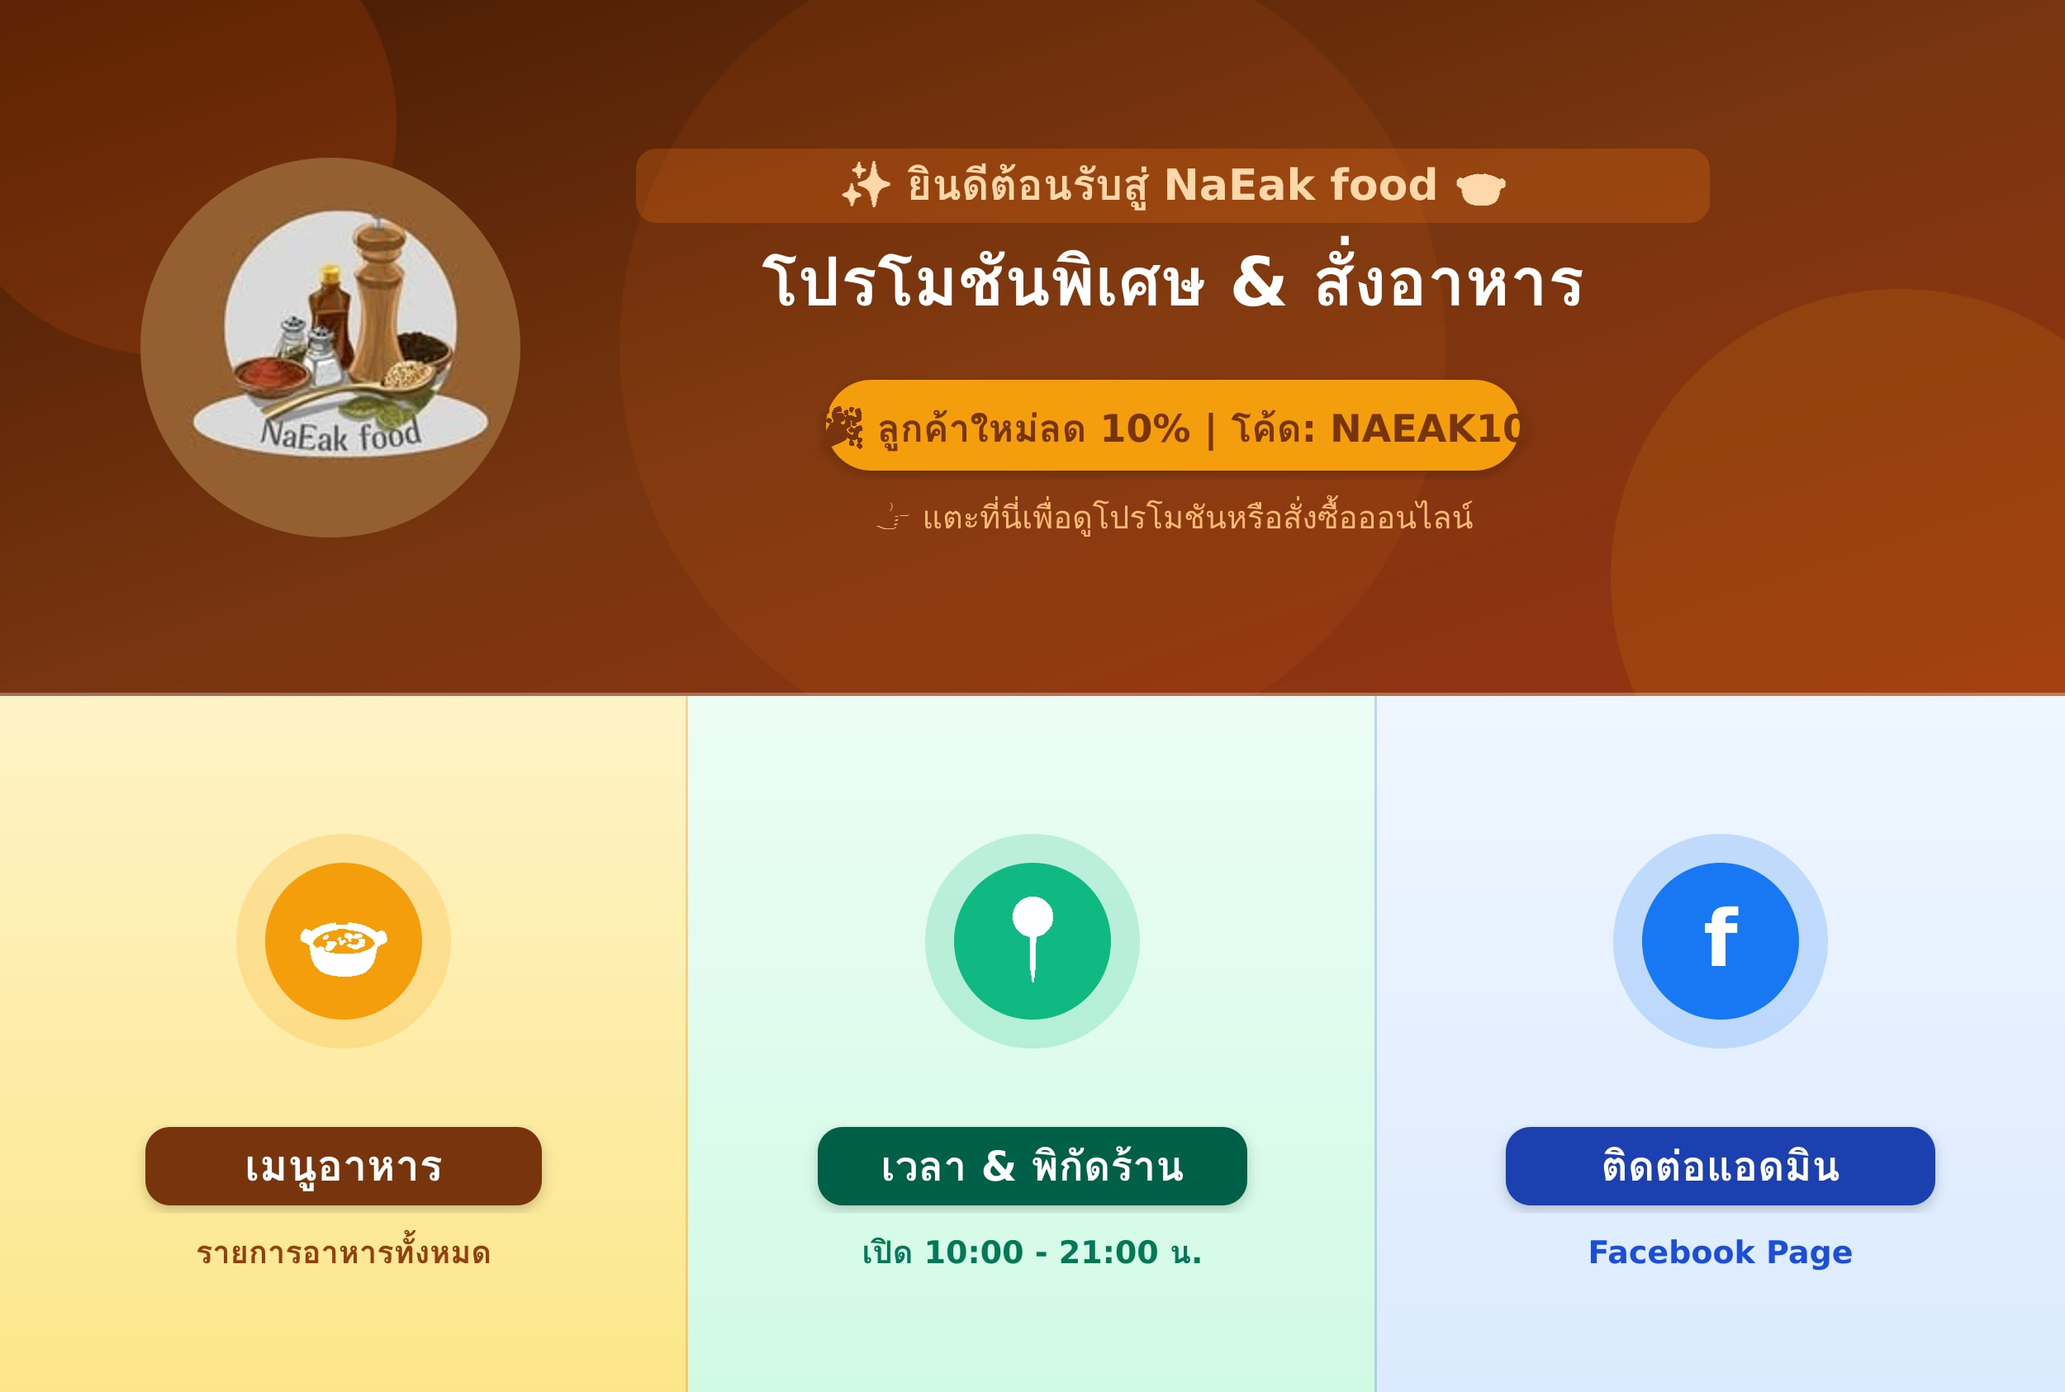
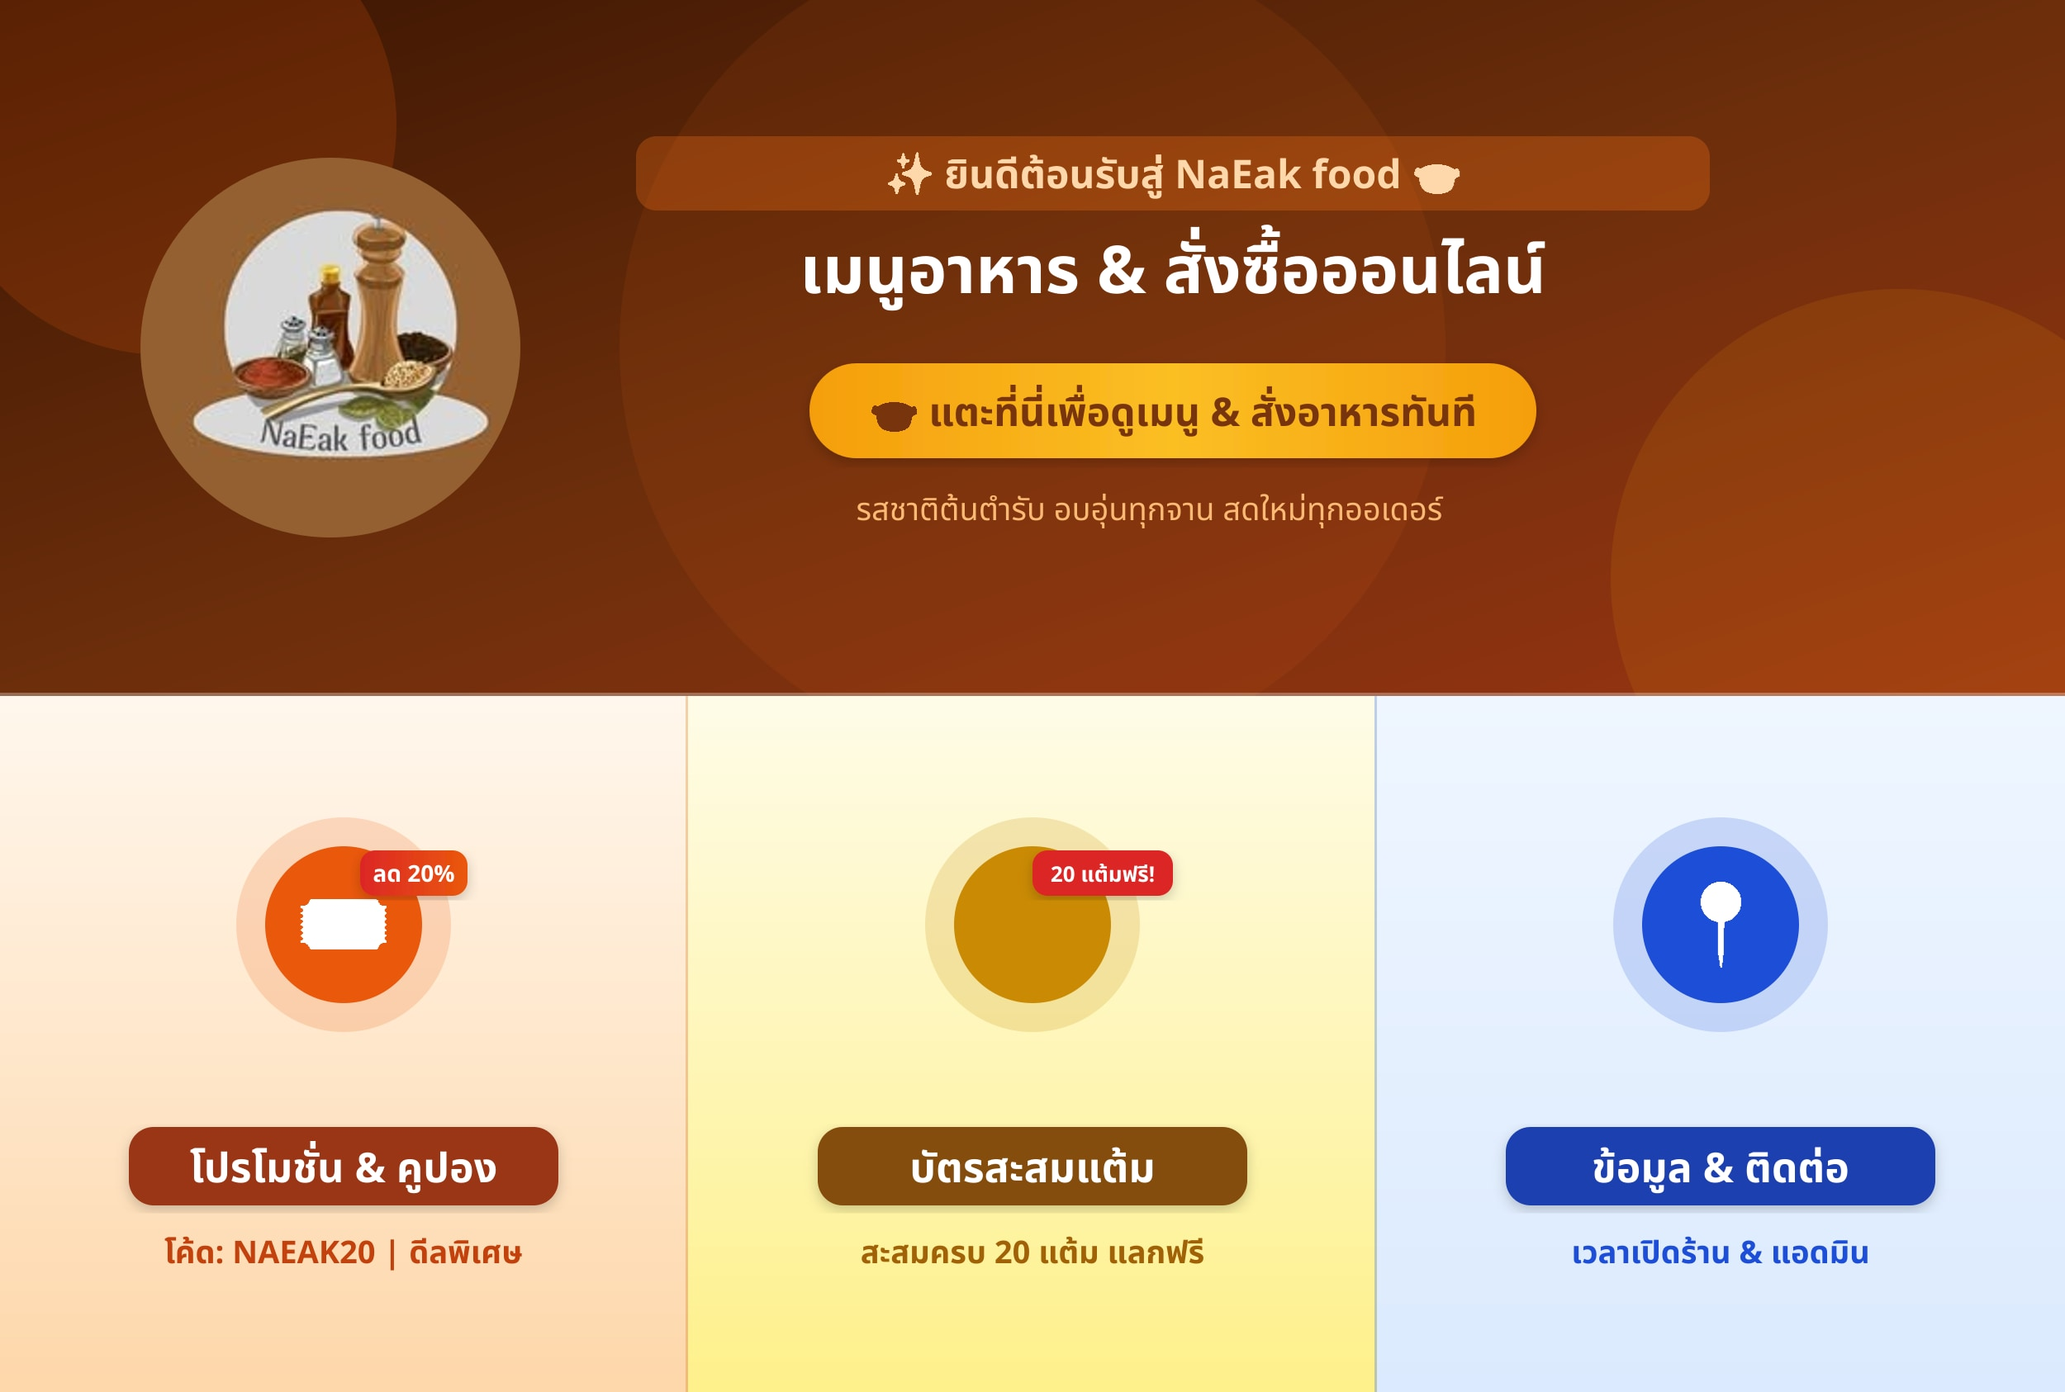
feat: add script and assets for generating template 3 image

diff --git a/assets/generateTemplate3Image.js b/assets/generateTemplate3Image.js
@@ -8,29 +8,48 @@ async function generateTemplate3Image() {
   const halfHeight = 843;
 
   // 1. สร้าง Base SVG สไตล์ Template 3 (บน 1 แถบยาว, ล่าง 3 ปุ่ม)
+  // บน: เมนู & สั่งอาหาร
+  // ล่างซ้าย: โปรโมชั่น & คูปอง (ลด 20% โค้ด NAEAK20) -> https://naeakfood.vercel.app/#promo
+  // ล่างกลาง: บัตรสะสมแต้ม (สะสมครบ 20 แต้ม แลกอาหารฟรี) -> https://naeakfood.vercel.app/#rewards
+  // ล่างขวา: ข้อมูล & ติดต่อ (พิกัดร้าน เวลาทำการ และแอดมิน) -> https://www.facebook.com/bcomputer45/
+
   const svg = `
   <svg width="${width}" height="${height}" viewBox="0 0 ${width} ${height}" xmlns="http://www.w3.org/2000/svg">
     <defs>
       <!-- Gradients -->
       <linearGradient id="topBannerGrad" x1="0%" y1="0%" x2="100%" y2="100%">
-        <stop offset="0%" stop-color="#451a03" />
-        <stop offset="50%" stop-color="#78350f" />
+        <stop offset="0%" stop-color="#3b1502" />
+        <stop offset="50%" stop-color="#6c2e0b" />
         <stop offset="100%" stop-color="#9a3412" />
       </linearGradient>
 
+      <!-- Button 1: โปรโมชั่น & คูปอง (ส้มประกายทอง/แดงโปรโมชั่น) -->
       <linearGradient id="btn1Grad" x1="0%" y1="0%" x2="0%" y2="100%">
-        <stop offset="0%" stop-color="#fef3c7" />
-        <stop offset="100%" stop-color="#fde68a" />
+        <stop offset="0%" stop-color="#fff7ed" />
+        <stop offset="100%" stop-color="#fed7aa" />
       </linearGradient>
 
+      <!-- Button 2: บัตรสะสมแต้ม 20 แต้ม (เหลืองทองพรีเมียม) -->
       <linearGradient id="btn2Grad" x1="0%" y1="0%" x2="0%" y2="100%">
-        <stop offset="0%" stop-color="#ecfdf5" />
-        <stop offset="100%" stop-color="#d1fae5" />
+        <stop offset="0%" stop-color="#fefce8" />
+        <stop offset="100%" stop-color="#fef08a" />
       </linearGradient>
 
+      <!-- Button 3: ข้อมูล & ติดต่อ (ฟ้าสดใส) -->
       <linearGradient id="btn3Grad" x1="0%" y1="0%" x2="0%" y2="100%">
         <stop offset="0%" stop-color="#eff6ff" />
         <stop offset="100%" stop-color="#dbeafe" />
+      </linearGradient>
+
+      <linearGradient id="goldPill" x1="0%" y1="0%" x2="100%" y2="0%">
+        <stop offset="0%" stop-color="#f59e0b" />
+        <stop offset="50%" stop-color="#fbbf24" />
+        <stop offset="100%" stop-color="#f59e0b" />
+      </linearGradient>
+
+      <linearGradient id="redPill" x1="0%" y1="0%" x2="100%" y2="0%">
+        <stop offset="0%" stop-color="#dc2626" />
+        <stop offset="100%" stop-color="#ea580c" />
       </linearGradient>
 
       <filter id="cardShadow" x="-10%" y="-10%" width="120%" height="120%">
@@ -45,88 +64,103 @@ async function generateTemplate3Image() {
     <!-- Background Base -->
     <rect width="${width}" height="${height}" fill="#1c1917" />
 
-    <!-- ==================== TOP BANNER (0, 0, 2500, 843) ==================== -->
+    <!-- ==================== TOP BANNER: เมนู & สั่งอาหาร (0, 0, 2500, 843) ==================== -->
     <rect x="0" y="0" width="${width}" height="${halfHeight}" fill="url(#topBannerGrad)" />
     
     <!-- Decorative Warm Food Pattern Elements -->
-    <circle cx="200" cy="150" r="280" fill="#ea580c" opacity="0.15" />
+    <circle cx="200" cy="150" r="280" fill="#ea580c" opacity="0.18" />
     <circle cx="2300" cy="700" r="350" fill="#f59e0b" opacity="0.12" />
     <circle cx="1250" cy="421" r="500" fill="#f97316" opacity="0.08" />
 
     <!-- Top Banner Content Area -->
-    <g transform="translate(620, 421)">
-      <!-- Placeholder frame where Logo will be placed at (140, 196) -->
-    </g>
-
-    <g transform="translate(1420, 260)">
-      <!-- Title -->
-      <rect x="-650" y="-80" width="1300" height="90" rx="25" fill="#f97316" opacity="0.25"/>
-      <text x="0" y="-18" font-family="DejaVu Sans, Arial, sans-serif" font-size="52" fill="#fed7aa" text-anchor="middle" font-weight="bold">✨ ยินดีต้อนรับสู่ NaEak food 🍲</text>
+    <g transform="translate(1420, 250)">
+      <!-- Welcome Subtitle -->
+      <rect x="-650" y="-85" width="1300" height="90" rx="25" fill="#f97316" opacity="0.3"/>
+      <text x="0" y="-22" font-family="'Noto Sans Thai', 'Prompt', 'Kanit', sans-serif" font-size="48" fill="#fed7aa" text-anchor="middle" font-weight="bold">✨ ยินดีต้อนรับสู่ NaEak food 🍲</text>
       
-      <!-- Highlight Banner -->
-      <text x="0" y="110" font-family="DejaVu Sans, Arial, sans-serif" font-size="82" fill="#ffffff" text-anchor="middle" font-weight="bold">โปรโมชันพิเศษ &amp; สั่งอาหาร</text>
+      <!-- Main Action Title -->
+      <text x="0" y="105" font-family="'Noto Sans Thai', 'Prompt', 'Kanit', sans-serif" font-size="80" fill="#ffffff" text-anchor="middle" font-weight="bold">เมนูอาหาร &amp; สั่งซื้อออนไลน์</text>
       
-      <!-- Discount Badge -->
-      <g transform="translate(0, 260)" filter="url(#pillShadow)">
-        <rect x="-420" y="-60" width="840" height="110" rx="55" fill="#f59e0b" />
-        <text x="0" y="15" font-family="DejaVu Sans, Arial, sans-serif" font-size="46" fill="#78350f" text-anchor="middle" font-weight="bold">🎉 ลูกค้าใหม่ลด 10% | โค้ด: NAEAK10</text>
+      <!-- Action Button / Pill -->
+      <g transform="translate(0, 250)" filter="url(#pillShadow)">
+        <rect x="-440" y="-60" width="880" height="115" rx="57" fill="url(#goldPill)" />
+        <text x="0" y="16" font-family="'Noto Sans Thai', 'Prompt', 'Kanit', sans-serif" font-size="48" fill="#78350f" text-anchor="middle" font-weight="bold">🍲 แตะที่นี่เพื่อดูเมนู &amp; สั่งอาหารทันที</text>
       </g>
-      <text x="0" y="380" font-family="DejaVu Sans, Arial, sans-serif" font-size="38" fill="#fdba74" text-anchor="middle">👉 แตะที่นี่เพื่อดูโปรโมชันหรือสั่งซื้อออนไลน์</text>
+      <text x="0" y="380" font-family="'Noto Sans Thai', 'Prompt', 'Kanit', sans-serif" font-size="38" fill="#fdba74" text-anchor="middle">รสชาติต้นตำรับ อบอุ่นทุกจาน สดใหม่ทุกออเดอร์ ✨</text>
     </g>
 
     <!-- Divider Line between Top and Bottom -->
     <line x1="0" y1="${halfHeight}" x2="${width}" y2="${halfHeight}" stroke="#ffffff" stroke-width="8" opacity="0.3" />
 
-    <!-- ==================== BOTTOM 3 BUTTONS ==================== -->
-    <!-- Button 1: เมนูอาหาร (0, 843, 833, 843) -->
+    <!-- ==================== BOTTOM BUTTON 1: โปรโมชั่น & คูปอง (0, 843, 833, 843) ==================== -->
     <rect x="0" y="${halfHeight}" width="833" height="${halfHeight}" fill="url(#btn1Grad)" />
-    <g transform="translate(416, 1140)">
-      <circle r="130" fill="#f59e0b" opacity="0.2"/>
-      <circle r="95" fill="#f59e0b" />
-      <text x="0" y="30" font-family="DejaVu Sans, Arial, sans-serif" font-size="95" fill="#ffffff" text-anchor="middle">🍲</text>
+    
+    <!-- Icon 1: Coupon / Gift -->
+    <g transform="translate(416, 1120)">
+      <circle r="130" fill="#ea580c" opacity="0.18"/>
+      <circle r="95" fill="#ea580c" />
+      <text x="0" y="32" font-family="'Noto Sans Thai', 'Prompt', 'Kanit', sans-serif" font-size="95" fill="#ffffff" text-anchor="middle">🎟</text>
+      
+      <!-- Mini Highlight Tag -->
+      <g transform="translate(85, -60)" filter="url(#pillShadow)">
+        <rect x="-65" y="-30" width="130" height="55" rx="18" fill="url(#redPill)" />
+        <text x="0" y="8" font-family="'Noto Sans Thai', 'Prompt', 'Kanit', sans-serif" font-size="28" font-weight="bold" fill="#ffffff" text-anchor="middle">ลด 20%</text>
+      </g>
     </g>
+
     <g transform="translate(416, 1420)">
-      <rect x="-240" y="-55" width="480" height="95" rx="30" fill="#78350f" filter="url(#pillShadow)"/>
-      <text x="0" y="10" font-family="DejaVu Sans, Arial, sans-serif" font-size="52" fill="#ffffff" text-anchor="middle" font-weight="bold">เมนูอาหาร</text>
-      <text x="0" y="110" font-family="DejaVu Sans, Arial, sans-serif" font-size="38" fill="#92400e" text-anchor="middle" font-weight="bold">รายการอาหารทั้งหมด</text>
+      <rect x="-260" y="-55" width="520" height="95" rx="30" fill="#9a3412" filter="url(#pillShadow)"/>
+      <text x="0" y="12" font-family="'Noto Sans Thai', 'Prompt', 'Kanit', sans-serif" font-size="50" fill="#ffffff" text-anchor="middle" font-weight="bold">โปรโมชั่น &amp; คูปอง</text>
+      <text x="0" y="110" font-family="'Noto Sans Thai', 'Prompt', 'Kanit', sans-serif" font-size="38" fill="#c2410c" text-anchor="middle" font-weight="bold">โค้ด: NAEAK20 | ดีลพิเศษ</text>
     </g>
 
     <!-- Button Divider 1-2 -->
-    <line x1="833" y1="${halfHeight}" x2="833" y2="${height}" stroke="#d97706" stroke-width="6" opacity="0.25" />
+    <line x1="833" y1="${halfHeight}" x2="833" y2="${height}" stroke="#d97706" stroke-width="6" opacity="0.3" />
 
-    <!-- Button 2: เวลา & พิกัดร้าน (833, 843, 834, 843) -->
+    <!-- ==================== BOTTOM BUTTON 2: บัตรสะสมแต้ม 20 แต้ม (833, 843, 834, 843) ==================== -->
     <rect x="833" y="${halfHeight}" width="834" height="${halfHeight}" fill="url(#btn2Grad)" />
-    <g transform="translate(1250, 1140)">
-      <circle r="130" fill="#10b981" opacity="0.2"/>
-      <circle r="95" fill="#10b981" />
-      <text x="0" y="30" font-family="DejaVu Sans, Arial, sans-serif" font-size="95" fill="#ffffff" text-anchor="middle">📍</text>
+    
+    <!-- Icon 2: Loyalty Stamp Star / Trophy -->
+    <g transform="translate(1250, 1120)">
+      <circle r="130" fill="#ca8a04" opacity="0.2"/>
+      <circle r="95" fill="#ca8a04" />
+      <text x="0" y="32" font-family="'Noto Sans Thai', 'Prompt', 'Kanit', sans-serif" font-size="95" fill="#ffffff" text-anchor="middle">⭐</text>
+
+      <!-- Mini Highlight Tag -->
+      <g transform="translate(85, -60)" filter="url(#pillShadow)">
+        <rect x="-85" y="-30" width="170" height="55" rx="18" fill="#dc2626" />
+        <text x="0" y="8" font-family="'Noto Sans Thai', 'Prompt', 'Kanit', sans-serif" font-size="26" font-weight="bold" fill="#ffffff" text-anchor="middle">20 แต้มฟรี!</text>
+      </g>
     </g>
+
     <g transform="translate(1250, 1420)">
-      <rect x="-260" y="-55" width="520" height="95" rx="30" fill="#065f46" filter="url(#pillShadow)"/>
-      <text x="0" y="10" font-family="DejaVu Sans, Arial, sans-serif" font-size="50" fill="#ffffff" text-anchor="middle" font-weight="bold">เวลา &amp; พิกัดร้าน</text>
-      <text x="0" y="110" font-family="DejaVu Sans, Arial, sans-serif" font-size="38" fill="#047857" text-anchor="middle" font-weight="bold">เปิด 10:00 - 21:00 น.</text>
+      <rect x="-260" y="-55" width="520" height="95" rx="30" fill="#854d0e" filter="url(#pillShadow)"/>
+      <text x="0" y="12" font-family="'Noto Sans Thai', 'Prompt', 'Kanit', sans-serif" font-size="50" fill="#ffffff" text-anchor="middle" font-weight="bold">บัตรสะสมแต้ม</text>
+      <text x="0" y="110" font-family="'Noto Sans Thai', 'Prompt', 'Kanit', sans-serif" font-size="38" fill="#a16207" text-anchor="middle" font-weight="bold">สะสมครบ 20 แต้ม แลกฟรี</text>
     </g>
 
     <!-- Button Divider 2-3 -->
-    <line x1="1667" y1="${halfHeight}" x2="1667" y2="${height}" stroke="#2563eb" stroke-width="6" opacity="0.25" />
+    <line x1="1667" y1="${halfHeight}" x2="1667" y2="${height}" stroke="#2563eb" stroke-width="6" opacity="0.3" />
 
-    <!-- Button 3: ติดต่อแอดมิน (1667, 843, 833, 843) -->
+    <!-- ==================== BOTTOM BUTTON 3: ข้อมูล & ติดต่อ (1667, 843, 833, 843) ==================== -->
     <rect x="1667" y="${halfHeight}" width="833" height="${halfHeight}" fill="url(#btn3Grad)" />
-    <g transform="translate(2083, 1140)">
-      <circle r="130" fill="#1877f2" opacity="0.2"/>
-      <circle r="95" fill="#1877f2" />
-      <!-- Facebook 'f' or speech icon -->
-      <text x="0" y="30" font-family="DejaVu Sans, Arial, sans-serif" font-size="95" fill="#ffffff" text-anchor="middle" font-weight="bold">f</text>
+    
+    <!-- Icon 3: Location / Info / Chat -->
+    <g transform="translate(2083, 1120)">
+      <circle r="130" fill="#1d4ed8" opacity="0.18"/>
+      <circle r="95" fill="#1d4ed8" />
+      <text x="0" y="32" font-family="'Noto Sans Thai', 'Prompt', 'Kanit', sans-serif" font-size="95" fill="#ffffff" text-anchor="middle">📍</text>
     </g>
+
     <g transform="translate(2083, 1420)">
       <rect x="-260" y="-55" width="520" height="95" rx="30" fill="#1e40af" filter="url(#pillShadow)"/>
-      <text x="0" y="10" font-family="DejaVu Sans, Arial, sans-serif" font-size="50" fill="#ffffff" text-anchor="middle" font-weight="bold">ติดต่อแอดมิน</text>
-      <text x="0" y="110" font-family="DejaVu Sans, Arial, sans-serif" font-size="38" fill="#1d4ed8" text-anchor="middle" font-weight="bold">Facebook Page</text>
+      <text x="0" y="12" font-family="'Noto Sans Thai', 'Prompt', 'Kanit', sans-serif" font-size="50" fill="#ffffff" text-anchor="middle" font-weight="bold">ข้อมูล &amp; ติดต่อ</text>
+      <text x="0" y="110" font-family="'Noto Sans Thai', 'Prompt', 'Kanit', sans-serif" font-size="38" fill="#1d4ed8" text-anchor="middle" font-weight="bold">เวลาเปิดร้าน &amp; แอดมิน</text>
     </g>
   </svg>
   `;
 
-  // 2. เตรียมรูปโลโก้ NaEak food (resize เป็น 450x450 พร้อมขอบวงกลมมนสวยงาม)
+  // 2. เตรียมรูปโลโก้ NaEak food (resize เป็น 460x460 พร้อมขอบวงกลมมนสวยงาม)
   const logoPath = path.join(__dirname, 'naeakfood_logo.jpg');
   let compositeLayers = [{ input: Buffer.from(svg), top: 0, left: 0 }];
 
@@ -142,7 +176,7 @@ async function generateTemplate3Image() {
       .png()
       .toBuffer();
 
-    // วางโลโก้ไว้ที่ฝั่งซ้ายของ Top Banner (ตำแหน่ง X: 160, Y: 190)
+    // วางโลโก้ไว้ที่ฝั่งซ้ายของ Top Banner (ตำแหน่ง X: 170, Y: 191)
     compositeLayers.push({
       input: circularLogo,
       top: 191,
@@ -150,9 +184,12 @@ async function generateTemplate3Image() {
     });
   }
 
+  // สร้างไฟล์รูปภาพทั้งในชื่อ naeakfood_template3_2500x1686.jpg และ naeakfood_final_2500x1686.jpg
   const outputPathJpg = path.join(__dirname, 'naeakfood_template3_2500x1686.jpg');
+  const finalOutputPathJpg = path.join(__dirname, 'naeakfood_final_2500x1686.jpg');
+  const webBannerPathJpg = path.join(__dirname, '../web/assets/banner.jpg');
 
-  await sharp({
+  const baseImage = await sharp({
     create: {
       width,
       height,
@@ -161,11 +198,19 @@ async function generateTemplate3Image() {
     }
   })
     .composite(compositeLayers)
-    .jpeg({ quality: 90, mozjpeg: true })
-    .toFile(outputPathJpg);
+    .jpeg({ quality: 92, mozjpeg: true })
+    .toBuffer();
+
+  fs.writeFileSync(outputPathJpg, baseImage);
+  fs.writeFileSync(finalOutputPathJpg, baseImage);
+  if (fs.existsSync(path.dirname(webBannerPathJpg))) {
+    fs.writeFileSync(webBannerPathJpg, baseImage);
+  }
 
   const stat = fs.statSync(outputPathJpg);
-  console.log(`✅ สร้างภาพ Template 3 สำเร็จ: ${outputPathJpg}`);
+  console.log(`✅ สร้างภาพ Rich Menu Template 3 สำเร็จ!`);
+  console.log(`📁 บันทึกที่: ${outputPathJpg}`);
+  console.log(`📁 บันทึกที่: ${finalOutputPathJpg}`);
   console.log(`📏 ขนาด: ${width} x ${height} px | น้ำหนักไฟล์: ${(stat.size / 1024).toFixed(1)} KB`);
 }
 
